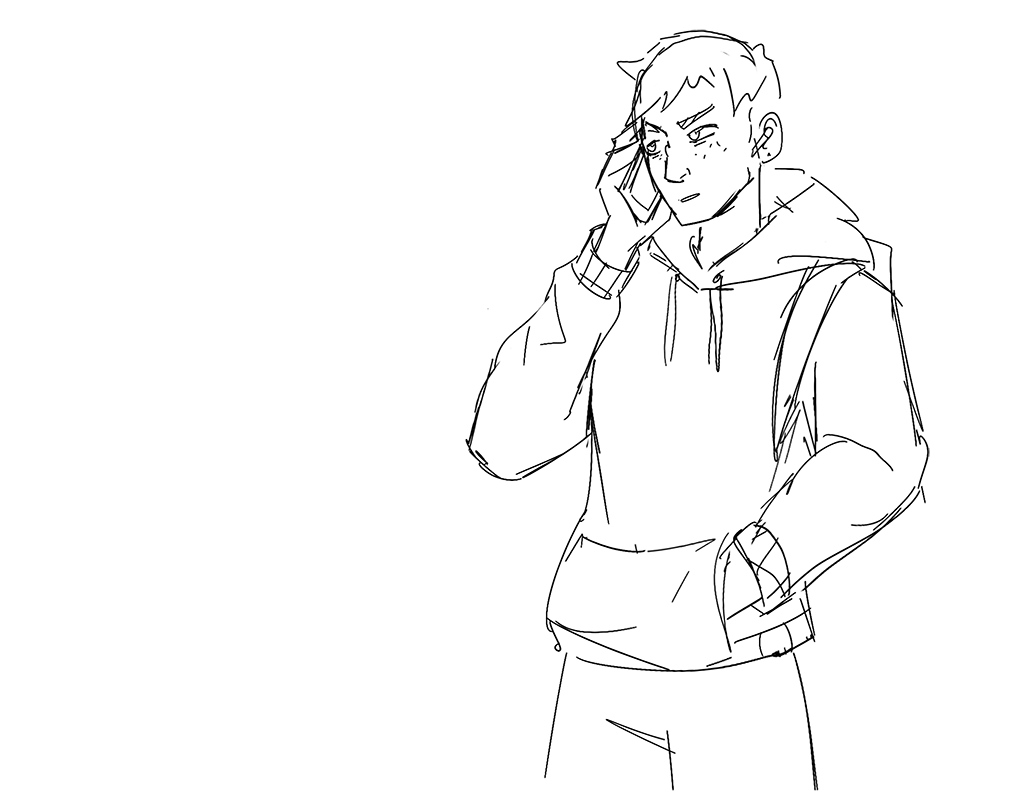
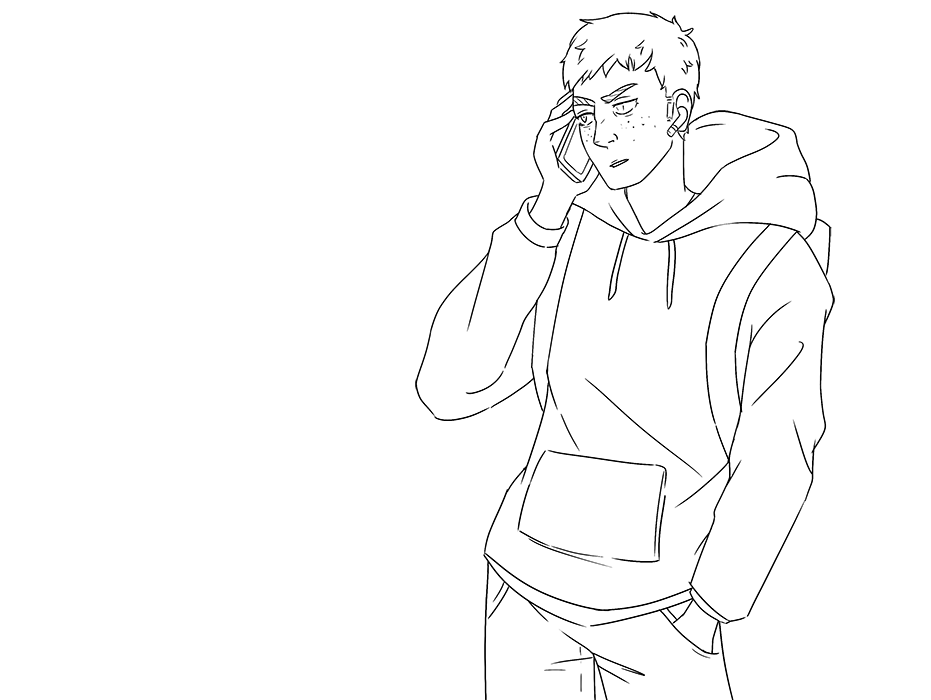
add drawings n&b

Changed region(s): [[0.4361, 0.0, 0.9033, 1.0], [0.8099, 0.18, 0.841, 0.21], [0.7787, 0.21, 0.8099, 0.24]]

diff --git a/src/scene5.ts b/src/scene5.ts
@@ -21,7 +21,7 @@ const script : DialogueLine[] = [
     },
     {
       id: "bar1",
-      name: "NODE",
+      name: "N.O.D.E.",
       text: "Le Virus est un don exceptionnel de bien des manières. Et toi, pourquoi nous aides-tu ? Tu n'es visiblement pas infectée. Tu penses peut-être nous rejoindre ?",
       background: 'bar',
       charactersOnScreen: {
@@ -40,7 +40,7 @@ const script : DialogueLine[] = [
       background: 'bar',
       charactersOnScreen: {
         left: "serveuse",
-        leftMood: "neutre",
+        leftMood: "neutre_cig",
         right: "ilyem",
         rightMood: "fuyant_cig",
         leftFlip: false,
@@ -49,8 +49,8 @@ const script : DialogueLine[] = [
     },
     {
       id: "bar3",
-      name: "NODE",
-      text: "Je vois. C'est très dommage... La perte de liberté est un bien petit sacrifice face au potentiel que nous offre NODE. Grâce à lui, la paix dans le pays sera bientôt plus qu'une simple utopie.",
+      name: "N.O.D.E.",
+      text: "Je vois. C'est très dommage... La perte de liberté est un bien petit sacrifice face au potentiel que nous offre N.O.D.E.. Grâce à lui, la paix dans le pays sera bientôt plus qu'une simple utopie.",
       background: 'bar',
       charactersOnScreen: {
         left: "serveuse",
@@ -77,12 +77,12 @@ const script : DialogueLine[] = [
     },
     {
       id: "bar5",
-      name: "NODE",
+      name: "N.O.D.E.",
       text: "De toute façon, quand nous aurons mis la main sur Syel, ce n'est plus une question que tu auras à te poser.",
       background: 'bar',
       charactersOnScreen: {
         left: "serveuse",
-        leftMood: "neutre",
+        leftMood: "neutre_cig",
         right: "ilyem",
         rightMood: "serieux_cig",
         leftFlip: false,
@@ -96,7 +96,7 @@ const script : DialogueLine[] = [
       background: 'bar',
       charactersOnScreen: {
         left: "serveuse",
-        leftMood: "neutre",
+        leftMood: "neutre_cig",
         right: "ilyem",
         rightMood: "serieux_cig",
         leftFlip: false,
@@ -110,7 +110,7 @@ const script : DialogueLine[] = [
       background: 'bar',
       charactersOnScreen: {
         left: "serveuse",
-        leftMood: "neutre",
+        leftMood: "neutre_cig",
         right: "ilyem",
         rightMood: "serieux_cig",
         leftFlip: false,
@@ -119,13 +119,13 @@ const script : DialogueLine[] = [
     },
     {
       id: "cinematiquefuite",
-      name: "NODE",
+      name: "N.O.D.E.",
       text: "Syel nous aidera à atteindre la Paix que nous recherchons tous.",
       background: 'noir',
     },
     {
       id: "cinematiquefuite1",
-      name: "NODE",
+      name: "N.O.D.E.",
       text: "Quant à Vangva, il est le plus grand frein à nos plans. L'idéal serait d'en faire l'un des nôtres pour profiter de sa force... sinon, nous n'aurons pas d'autre choix que de l'éliminer.",
       background: 'impasse',
       charactersOnScreen: {

diff --git a/src/scene4.ts b/src/scene4.ts
@@ -13,7 +13,7 @@ const script : DialogueLine[] = [
     },
     {
       id: "impasse0",
-      name: "NODE",
+      name: "N.O.D.E.",
       text: "Tiens... Tu n'es pas né à Brissa, toi ? C'est quand même malheureux de connaître aussi mal sa propre ville.",
       background: 'impasse',
       charactersOnScreen: {
@@ -41,7 +41,7 @@ const script : DialogueLine[] = [
     },
     {
       id: "impasse2",
-      name: "NODE",
+      name: "N.O.D.E.",
       text: "Peu importe. Tu sais ce qu'on cherche, Vangva. Ou plutôt, <i>qui</i> on cherche. On a entendu ta conversation au téléphone, on sait que tu t'apprêtes à le retrouver... rappelle-toi, on a des yeux et des oreilles partout. Il te suffit juste de nous dire où il se trouve et on te laissera partir indemne.",
       background: 'impasse',
       charactersOnScreen: {
@@ -69,7 +69,7 @@ const script : DialogueLine[] = [
     },
     {
       id: "impasse4",
-      name: "NODE",
+      name: "N.O.D.E.",
       text: "C'est vrai, tu es plus fort que nous.",
       background: 'impasse',
       charactersOnScreen: {
@@ -83,7 +83,7 @@ const script : DialogueLine[] = [
     },
     {
       id: "impasse5",
-      name: "NODE",
+      name: "N.O.D.E.",
       text: "Mais nous, on est plus nombreux. Et surtout capables d'appeler du renfort sans même avoir besoin d'ouvrir la bouche.",
       background: 'impasse',
       charactersOnScreen: {
@@ -97,7 +97,7 @@ const script : DialogueLine[] = [
     },
     {
       id: "impasse6",
-      name: "NODE",
+      name: "N.O.D.E.",
       text: "Alors oui, tu peux faire le fier ! Mais peu importe tes pouvoirs, il restera toujours au moins l'un d'entre nous debout pour t'arrêter...",
       background: 'impasse',
       charactersOnScreen: {
@@ -125,7 +125,7 @@ const script : DialogueLine[] = [
     },
     {
       id: "impasse8",
-      name: "NODE",
+      name: "N.O.D.E.",
       text: "Tu sais, si tu nous disais juste où se trouve Syel...",
       background: 'impasse',
       charactersOnScreen: {
@@ -219,7 +219,7 @@ const script : DialogueLine[] = [
     },
     {
       id: "impasse16",
-      name: "NODE",
+      name: "N.O.D.E.",
       text: "Suivez-le !! Ne le laissez pas s'échapper !!",
       background: 'impasse',
       charactersOnScreen: {
@@ -247,7 +247,7 @@ const script : DialogueLine[] = [
     },
     {
       id: "impasse18",
-      name: "NODE",
+      name: "N.O.D.E.",
       text: "Vangva... On te ralentira le plus longtemps possible. Peu importe la raclée qu'on va se prendre...",
       background: 'impasse',
       charactersOnScreen: {

diff --git a/src/scene2.ts b/src/scene2.ts
@@ -3,19 +3,24 @@ import { DialogueLine, FadeTransitionType } from "./types";
 const script : DialogueLine[] = [
     {
         id: "gare", // Unique ID for this line
-        name: "Vangva",
-        text: "<i>Décidément, ça me fera toujours quelque chose de rentrer à Brissa. Un quelque chose coincé entre la nostalgie et le malaise…</i>",
+        text: "Une vidéo montre la ville de Brissa de l'extérieur",
         background: 'gare',
         backgroundTransition: {
           easing: FadeTransitionType.easeIn,
           duration: 3000,
         },
-        charactersOnScreen: {
-            left: "vava",
-            leftMood: "pense",
-            leftFlip: true,
-            rightFlip: true
-        }
+    },
+    {
+      id: "gare0",
+      name: "Vangva",
+      text: "<i>Décidément, ça me fera toujours quelque chose de rentrer à Brissa. Un quelque chose coincé entre la nostalgie et le malaise…</i>",
+      background: 'gare',
+      charactersOnScreen: {
+        left: "vava",
+        leftMood: "pense",
+        leftFlip: true,
+        rightFlip: false
+      },
     },
     {
       id: "gare1",
@@ -178,7 +183,7 @@ const script : DialogueLine[] = [
     },
     {
       id: "gare4",
-      name: "NODE",
+      name: "N.O.D.E.",
       text: "Je vois. Ça me semble crédible.",
       background: 'gareVava',
       charactersOnScreen: {
@@ -206,7 +211,7 @@ const script : DialogueLine[] = [
     },
     {
       id: "gare6",
-      name: "NODE",
+      name: "N.O.D.E.",
       text: "*elle rigole*",
       background: 'gareVava',
       charactersOnScreen: {
@@ -220,7 +225,7 @@ const script : DialogueLine[] = [
     },
     {
       id: "gare7",
-      name: "NODE",
+      name: "N.O.D.E.",
       text: "Merci pour ta collaboration. C'est bon. On l'a déjà repéré.",
       background: 'gareVava',
       charactersOnScreen: {

diff --git a/src/scene8.ts b/src/scene8.ts
@@ -3,7 +3,7 @@ import { DialogueLine, FadeTransitionType } from "./types";
 const script : DialogueLine[] = [
     {
         id: "bagarre", // Unique ID for this line
-        name: "NODE",
+        name: "N.O.D.E.",
         text: "Attends... Qu'est-ce que ça signifie ? On dirait qu'ils ont des pro...",
         background: 'bar',
         charactersOnScreen: {
@@ -21,7 +21,7 @@ const script : DialogueLine[] = [
     },
     {
       id: "bagarre1",
-      name: "NODE",
+      name: "N.O.D.E.",
       text: "Que... ?!",
       background: 'bar',
       charactersOnScreen: {
@@ -57,7 +57,7 @@ const script : DialogueLine[] = [
     },
     {
       id: "bagarre4",
-      name: "NODE",
+      name: "N.O.D.E.",
       text: "... Ah... *elle a l'air très effrayée*",
       background: 'bar',
       charactersOnScreen: {
@@ -93,7 +93,7 @@ const script : DialogueLine[] = [
     },
     {
       id: "bagarre7",
-      name: "NODE",
+      name: "N.O.D.E.",
       text: "Ad... Adrika... ? Je ne vois pas du tout qui...",
       background: 'bar',
       charactersOnScreen: {
@@ -117,7 +117,7 @@ const script : DialogueLine[] = [
     },
     {
       id: "bagarre9",
-      name: "NODE",
+      name: "N.O.D.E.",
       text: "Je... Je te jure... Je n'ai jamais entendu ce prénom...",
       background: 'bar',
       charactersOnScreen: {
@@ -141,7 +141,7 @@ const script : DialogueLine[] = [
     },
     {
       id: "bagarre11",
-      name: "NODE",
+      name: "N.O.D.E.",
       text: "Je jure... Je jure que je n'en sais rien...",
       background: 'bar',
       charactersOnScreen: {

diff --git a/src/scene1.ts b/src/scene1.ts
@@ -27,7 +27,7 @@ const script: DialogueLine[] = [
     },
     {
       id: "start1",
-      name: "NODE",
+      name: "N.O.D.E.",
       text: "...",
       background: 'bar',
       charactersOnScreen: {
@@ -55,7 +55,7 @@ const script: DialogueLine[] = [
     },
     {
       id: "start3",
-      name: "NODE",
+      name: "N.O.D.E.",
       text: "...",
       background: 'bar',
       charactersOnScreen: {
@@ -69,7 +69,7 @@ const script: DialogueLine[] = [
     },
     {
       id: "start3.1",
-      name: "NODE",
+      name: "N.O.D.E.",
       text: "... mais un Nouvel Idéal le fera renaître de ses cendres.",
       background: 'bar',
       charactersOnScreen: {
@@ -83,7 +83,7 @@ const script: DialogueLine[] = [
     },
     {
       id: "start5",
-      name: "NODE",
+      name: "N.O.D.E.",
       text: "Tu te joins à moi ?",
       background: 'bar',
       charactersOnScreen: {

diff --git a/src/scene9.ts b/src/scene9.ts
@@ -13,7 +13,7 @@ const script : DialogueLine[] = [
     },
     {
       id: "supercherie1",
-      name: "NODE",
+      name: "N.O.D.E.",
       text: "On te tient ! Frères et soeurs, mobilisez-vous, ce n'est plus le moment de se cacher ! Notre priorité est de l'emmener en lieu sûr !",
       background: 'rues',
       charactersOnScreen: {
@@ -23,8 +23,8 @@ const script : DialogueLine[] = [
         rightMood: "arrogant",
         leftFlip: false,
         rightFlip: false,
-        middle: "syel",
-        middleMood: "attend",
+        middle: "ira",
+        middleMood: "secache",
         middleFlip: false,
       },
     },

diff --git a/src/scene6.ts b/src/scene6.ts
@@ -21,7 +21,7 @@ const script : DialogueLine[] = [
     },
     {
       id: "twist1",
-      name: "NODE",
+      name: "N.O.D.E.",
       text: "Ça suffit ! T'es en train de te payer notre tête ?!",
       background: 'impasse',
       charactersOnScreen: {
@@ -109,7 +109,7 @@ const script : DialogueLine[] = [
     },
     {
       id: "twist9",
-      name: "NODE",
+      name: "N.O.D.E.",
       text: "Arrête de faire le malin !! Notre nombre est peut-être réduit, mais tu n'en restes pas moins seul face à cinq personnes !",
       background: 'impasse',
       charactersOnScreen: {
